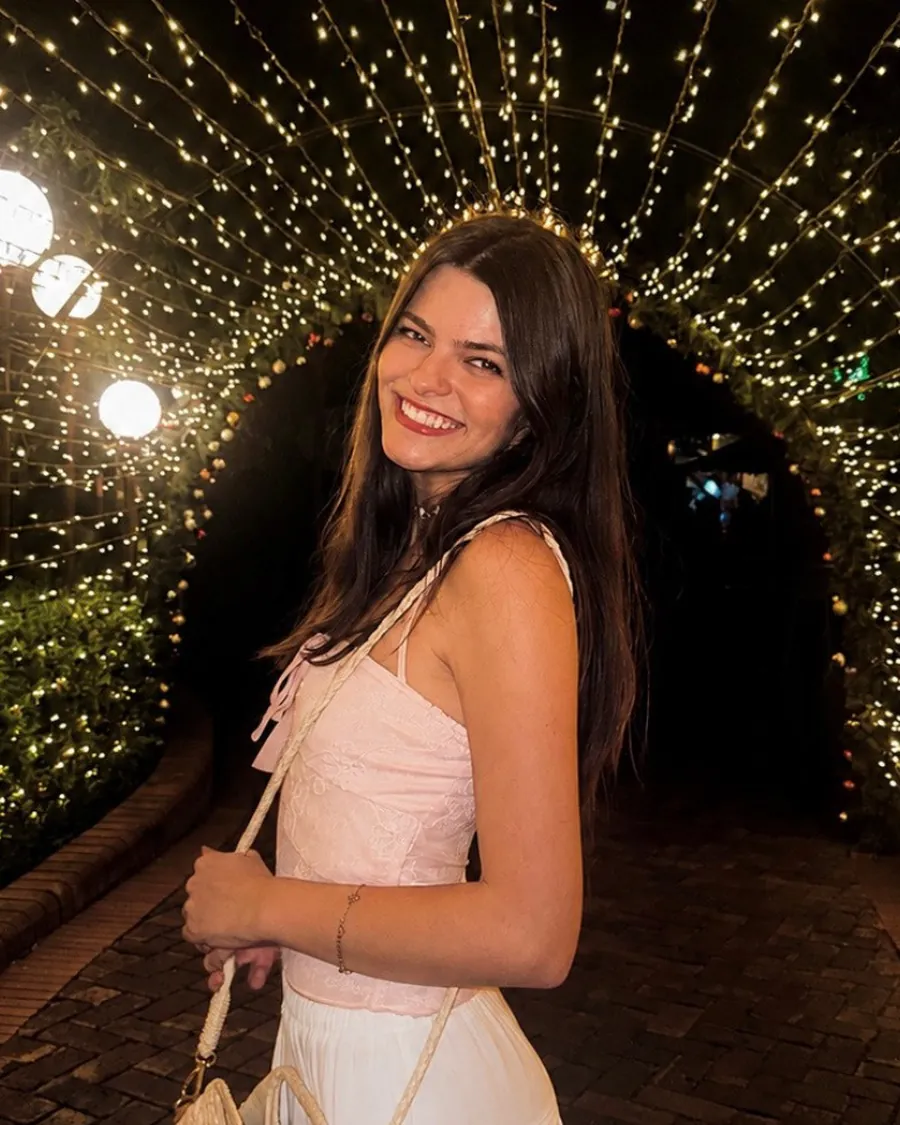
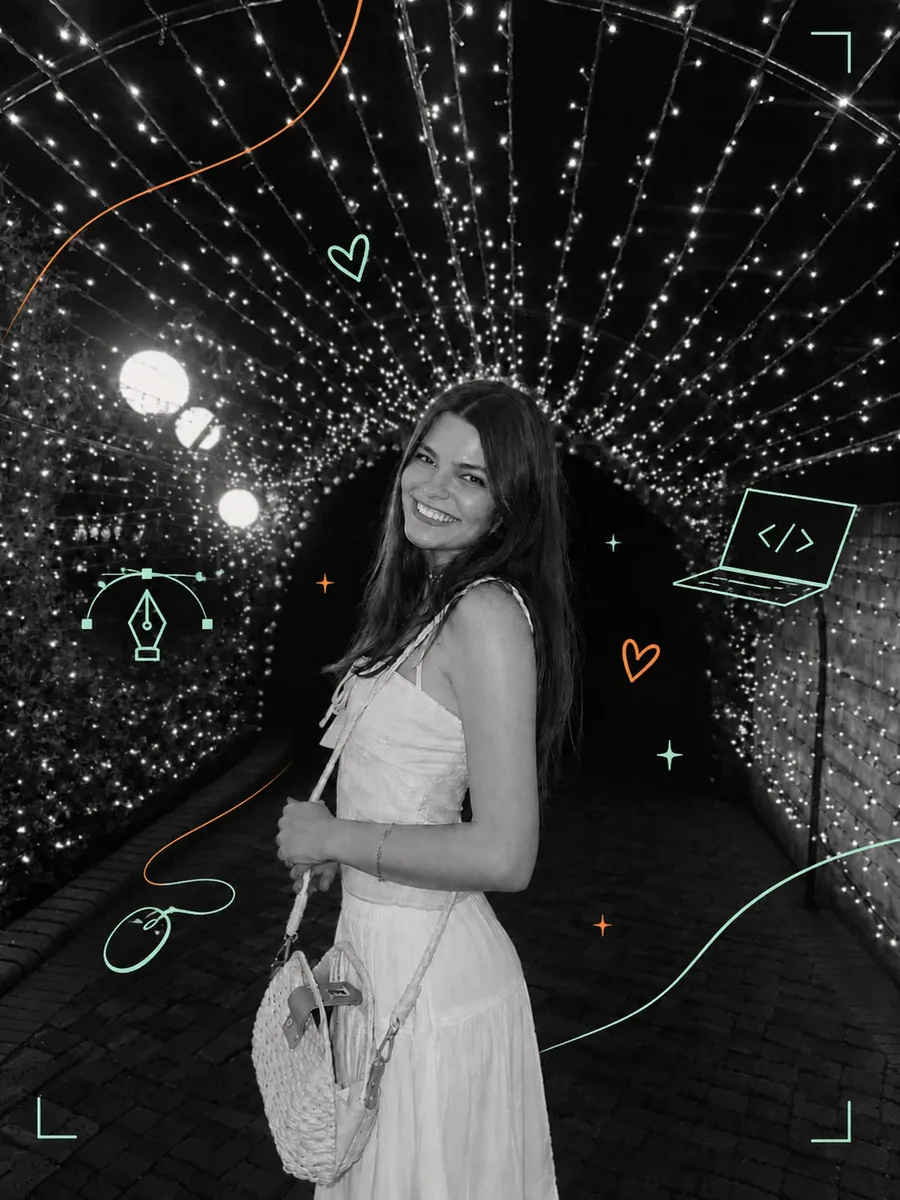
New photo blended into the page; diamonds in the marquee
- Swap in the black-and-white doodle photo. On the dark theme its edges
  fade into the page, it bleeds off the right edge, drifts on scroll,
  a few fairy lights twinkle and a soft glow spills onto the page. On
  the paper theme it sits in a plain frame instead.
- Replace the marquee's star symbol with small orange diamonds.

diff --git a/styles.css b/styles.css
@@ -468,7 +468,10 @@ html.has-hover .preview { display: block; }
   font-size: clamp(56px, 9.5vw, 180px); line-height: 1; letter-spacing: -.03em;
   font-variation-settings: "opsz" 144, "wght" 280;
 }
-.marquee__track i { font-style: normal; color: var(--accent); display: inline-block; font-size: .6em; vertical-align: .25em; margin: 0 .15em; }
+.marquee__track i {
+  display: inline-block; width: .16em; height: .16em; margin: 0 .38em;
+  background: var(--accent); transform: rotate(45deg); vertical-align: .2em;
+}
 
 /* ---------- kit / device ---------- */
 .kit { padding: 18vh var(--pad) 16vh; }
@@ -549,18 +552,41 @@ html.js .kit.in .device { opacity: 1; transform: none; }
 /* ---------- log ---------- */
 .log { padding: 18vh var(--pad) 16vh; border-top: 1px solid var(--line); }
 .log__intro { max-width: 520px; color: var(--ink-2); margin: 5vh 0 9vh auto; font-size: 17px; line-height: 1.55; }
-/* Photo beside the changelog heading */
-.log__head { display: grid; grid-template-columns: 1fr minmax(240px, 360px); gap: 6vw; align-items: end; margin-bottom: 9vh; }
+/* Photo beside the changelog heading. On the dark theme its black edges
+   melt into the page, it bleeds off the right edge and a few lights twinkle. */
+.log__head { display: grid; grid-template-columns: 1fr minmax(280px, 36vw); gap: 4vw; align-items: center; margin-bottom: 7vh; }
 .log__head .log__intro { margin: 5vh 0 0; }
-.me { margin: 0; }
-.me__frame { position: relative; overflow: hidden; border-radius: 6px; aspect-ratio: 4 / 5; background: var(--bg-2); }
-.me__frame img { width: 100%; height: 100%; object-fit: cover; transform: scale(1.12); transition: transform 1.6s var(--ease); }
-html.js .me .me__frame { clip-path: inset(100% 0 0 0 round 6px); transition: clip-path 1.3s var(--ease-io); }
-html.js .me.in .me__frame { clip-path: inset(0 0 0 0 round 6px); }
-.me.in .me__frame img { transform: scale(1.02); }
-.me:hover .me__frame img { transform: scale(1.07); }
-.me figcaption { display: flex; justify-content: space-between; gap: 12px; margin-top: 12px; color: var(--ink-2); }
+.me { margin: 0 calc(var(--pad) * -1) 0 0; position: relative; isolation: isolate; }
+.me::before { /* the lights spill onto the page */
+  content: ""; position: absolute; inset: -12% 0 -6% -28%; z-index: -1; pointer-events: none;
+  background: radial-gradient(closest-side, rgba(236,231,219,.09), rgba(169,220,201,.04) 55%, transparent);
+}
+.me__frame {
+  position: relative; overflow: hidden; aspect-ratio: 3 / 4;
+  -webkit-mask-image: linear-gradient(to right, transparent 0, #000 24%), linear-gradient(to bottom, transparent 0, #000 10%, #000 80%, transparent 100%);
+  -webkit-mask-composite: source-in;
+  mask-image: linear-gradient(to right, transparent 0, #000 24%), linear-gradient(to bottom, transparent 0, #000 10%, #000 80%, transparent 100%);
+  mask-composite: intersect;
+}
+.me__move { position: absolute; inset: -7% 0; will-change: transform; }
+.me__move img { width: 100%; height: 100%; object-fit: cover; transform: scale(1.08); transition: transform 1.8s var(--ease); }
+.me.in .me__move img { transform: scale(1); }
+.me:hover .me__move img { transform: scale(1.03); }
+html.js .me .me__frame { opacity: 0; transition: opacity 1.6s var(--ease); }
+html.js .me.in .me__frame { opacity: 1; }
+.me__twinkle i {
+  position: absolute; width: 10px; height: 10px; margin: -5px 0 0 -5px; border-radius: 50%;
+  background: radial-gradient(circle, #fff 0 18%, rgba(255,255,255,.55) 32%, transparent 70%);
+  opacity: 0; animation: twinkle var(--t) ease-in-out var(--d) infinite;
+}
+@keyframes twinkle { 0%, 100% { opacity: 0; transform: scale(.4); } 45% { opacity: .95; transform: scale(1.25); } }
+.me figcaption { display: flex; justify-content: space-between; gap: 12px; margin-top: 4px; padding: 0 var(--pad) 0 24%; color: var(--ink-2); }
 .me figcaption span:first-child { color: var(--accent); }
+/* Paper theme: a dark photo can't melt into cream, so frame it instead */
+[data-theme="paper"] .me { margin-right: 0; }
+[data-theme="paper"] .me::before { display: none; }
+[data-theme="paper"] .me__frame { -webkit-mask-image: none; mask-image: none; border-radius: 6px; }
+[data-theme="paper"] .me figcaption { padding: 8px 0 0; }
 .log__list { list-style: none; border-top: 1px solid var(--line); }
 .log__list li {
   display: grid; grid-template-columns: 140px 1fr 110px; gap: 24px; align-items: baseline;
@@ -727,8 +753,14 @@ html.js .log__list li.in { opacity: 1; transform: none; }
   .key, .key__cap { border-radius: 9px; }
   .key__cap { padding: 7px; }
   .log__list li { grid-template-columns: 1fr; gap: 8px; }
-  .log__head { grid-template-columns: 1fr; gap: 5vh; }
-  .me { max-width: 340px; }
+  .log__head { grid-template-columns: 1fr; gap: 2vh; }
+  .me { margin: 0 calc(var(--pad) * -1); }
+  .me__frame {
+    -webkit-mask-image: linear-gradient(to bottom, transparent 0, #000 10%, #000 82%, transparent 100%);
+    mask-image: linear-gradient(to bottom, transparent 0, #000 10%, #000 82%, transparent 100%);
+  }
+  .me figcaption { padding: 0 var(--pad); }
+  [data-theme="paper"] .me { margin: 0; }
   .log__tag { justify-self: start; }
   .case__meta { grid-template-columns: 1fr 1fr; }
   .case__cols { grid-template-columns: 1fr; }
@@ -747,5 +779,7 @@ html.js .log__list li.in { opacity: 1; transform: none; }
 @media (prefers-reduced-motion: reduce) {
   *, *::before, *::after { animation-duration: .01ms !important; animation-iteration-count: 1 !important; transition-duration: .01ms !important; transition-delay: 0s !important; }
   html.js .reveal-up, html.js .line > span, html.js .hero__first .ch, html.js .log__list li, html.js .device { opacity: 1 !important; transform: none !important; }
-  html.js .hero__last, html.js .card__plate, html.js .me .me__frame { clip-path: none !important; }
+  html.js .hero__last, html.js .card__plate { clip-path: none !important; }
+  html.js .me .me__frame { opacity: 1 !important; }
+  .me__twinkle { display: none; }
 }

diff --git a/index.html b/index.html
@@ -241,8 +241,8 @@
   <!-- ============ MARQUEE ============ -->
   <div class="marquee" aria-hidden="true">
     <div class="marquee__track">
-      <span>Designed <i>✺</i> Built <i>✺</i> Shipped <i>✺</i> Fixed <i>✺</i> Shipped again <i>✺</i>&nbsp;</span>
-      <span>Designed <i>✺</i> Built <i>✺</i> Shipped <i>✺</i> Fixed <i>✺</i> Shipped again <i>✺</i>&nbsp;</span>
+      <span>Designed <i></i> Built <i></i> Shipped <i></i> Fixed <i></i> Shipped again <i></i>&nbsp;</span>
+      <span>Designed <i></i> Built <i></i> Shipped <i></i> Fixed <i></i> Shipped again <i></i>&nbsp;</span>
     </div>
   </div>
 
@@ -280,7 +280,7 @@
       <p class="log__intro">I moved the best projects to my own account, fixed what needed fixing and wrote a proper README for each, so every repo shows what it does, how it's built and how to run it. Before code, I painted and did graphic design, which is why I care as much about how software looks as how it works.</p>
       </div>
       <figure class="me" data-cursor="view" data-cursor-label="Hi!">
-        <div class="me__frame"><img src="assets/img/me.webp" alt="Charné smiling under a tunnel of fairy lights" width="900" height="1125" loading="lazy" decoding="async"></div>
+        <div class="me__frame"><div class="me__move" data-speed="0.07"><img src="assets/img/me.webp" alt="Charné smiling in black and white under a tunnel of fairy lights, with hand-drawn design and code doodles" width="900" height="1200" loading="lazy" decoding="async"><span class="me__twinkle" aria-hidden="true"><i style="left:18%;top:9%;--d:0s;--t:2.6s"></i><i style="left:34%;top:4%;--d:1.1s;--t:3.1s"></i><i style="left:63%;top:7%;--d:0.6s;--t:2.8s"></i><i style="left:81%;top:14%;--d:1.7s;--t:3.4s"></i><i style="left:12%;top:27%;--d:2.2s;--t:2.9s"></i><i style="left:88%;top:33%;--d:0.3s;--t:3.2s"></i><i style="left:27%;top:18%;--d:1.4s;--t:2.4s"></i><i style="left:72%;top:22%;--d:2.6s;--t:3.6s"></i></span></div></div>
         <figcaption class="mono"><span>Hi, I'm Charné</span><span>Pretoria, ZA</span></figcaption>
       </figure>
     </div>
